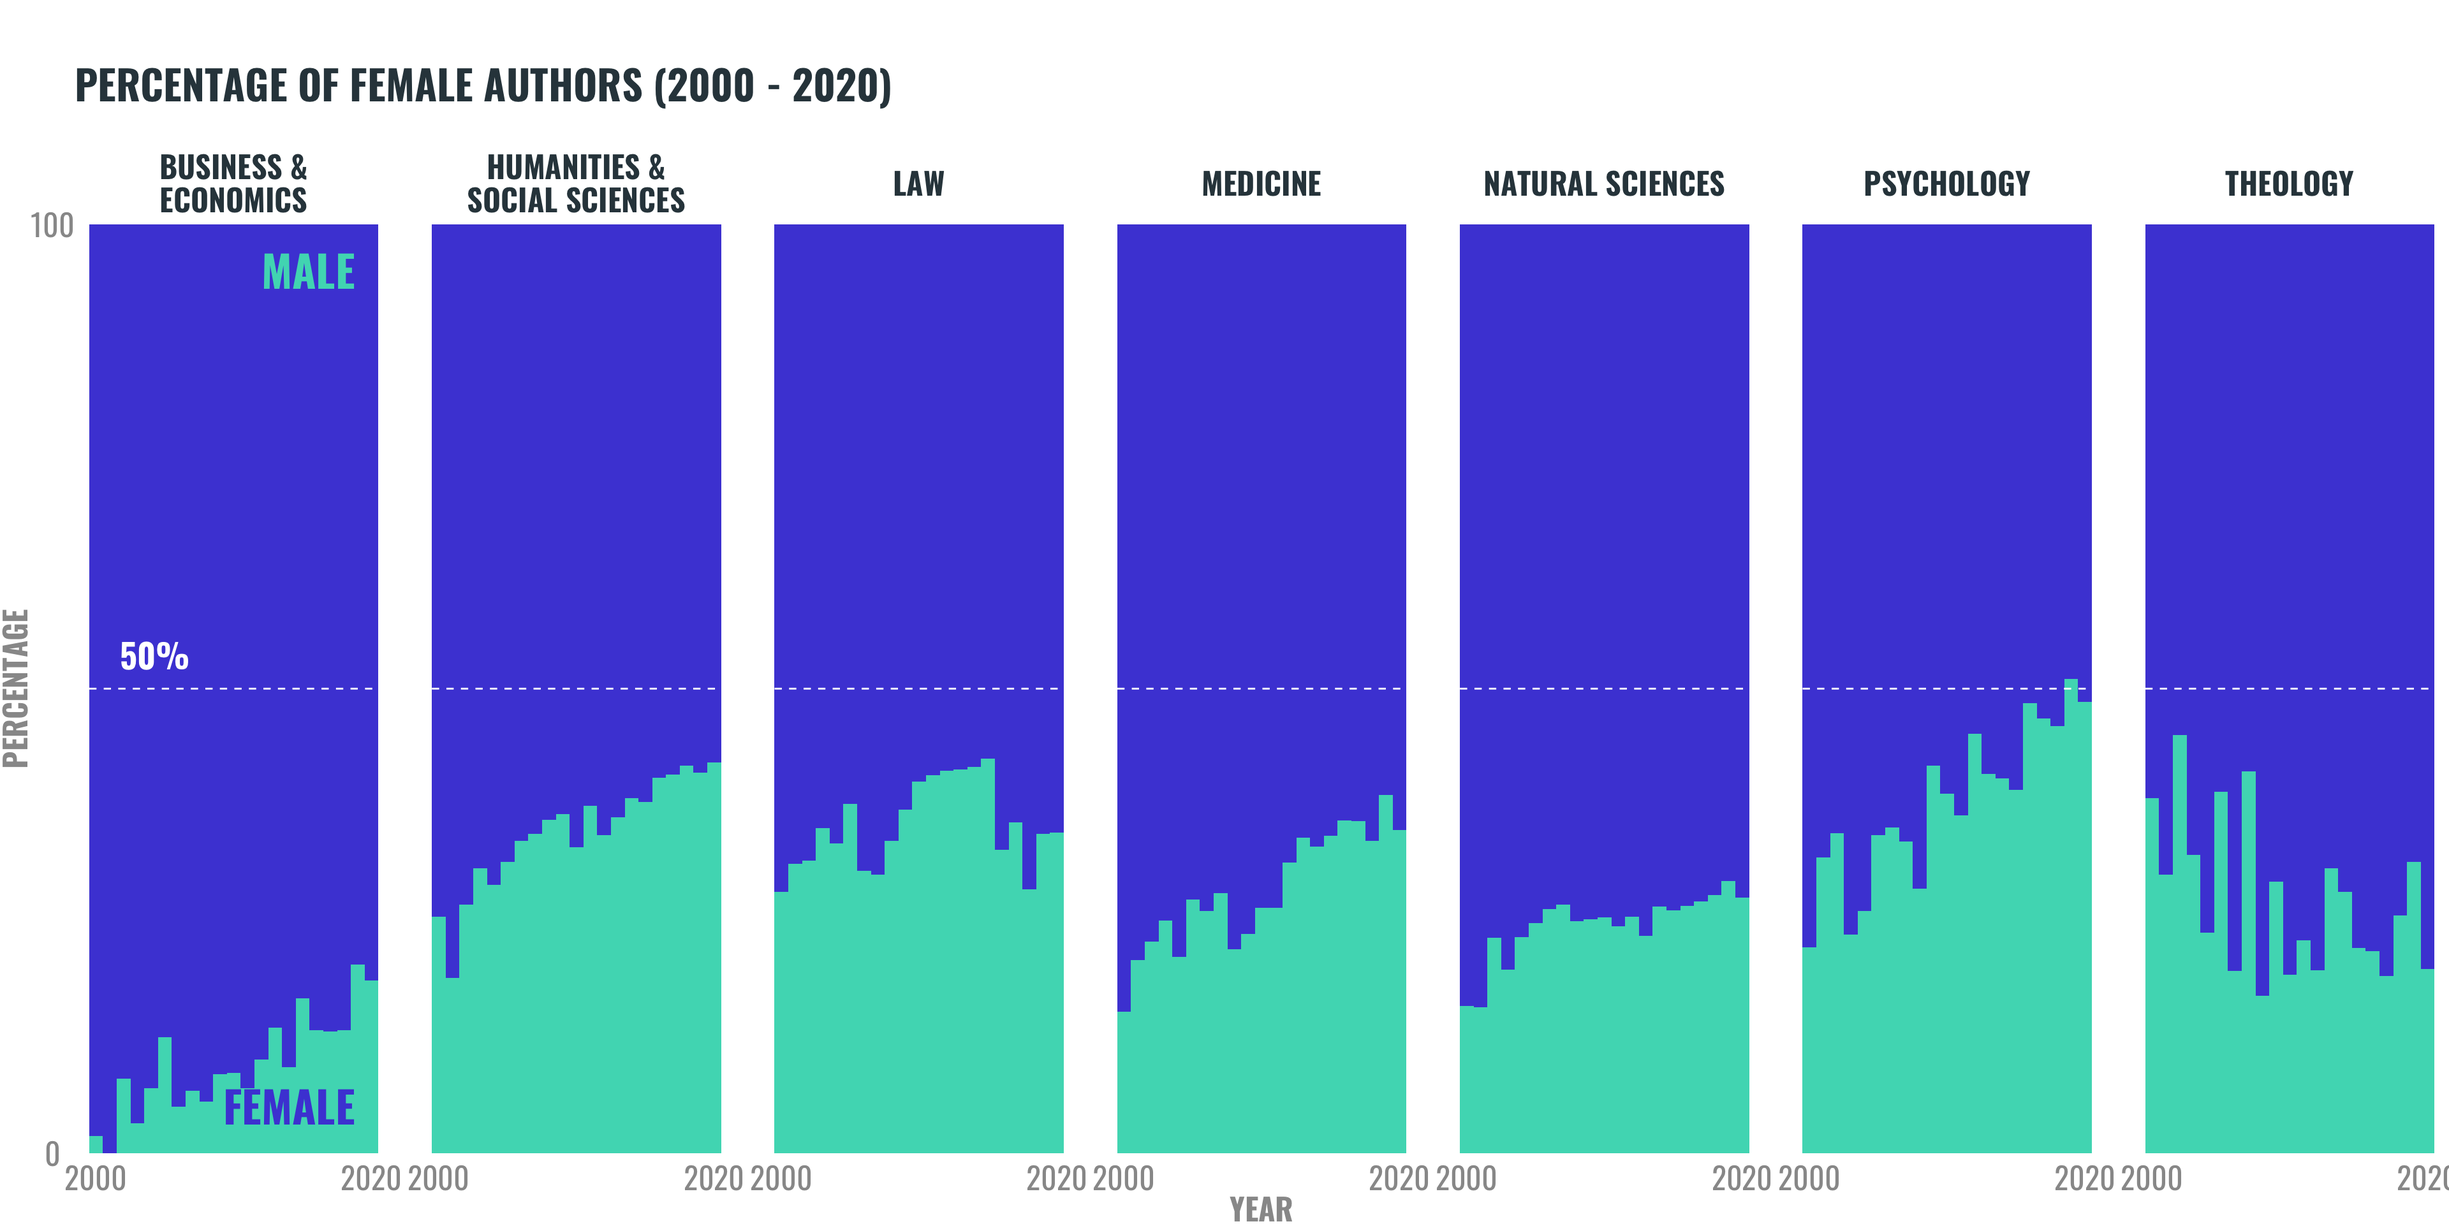
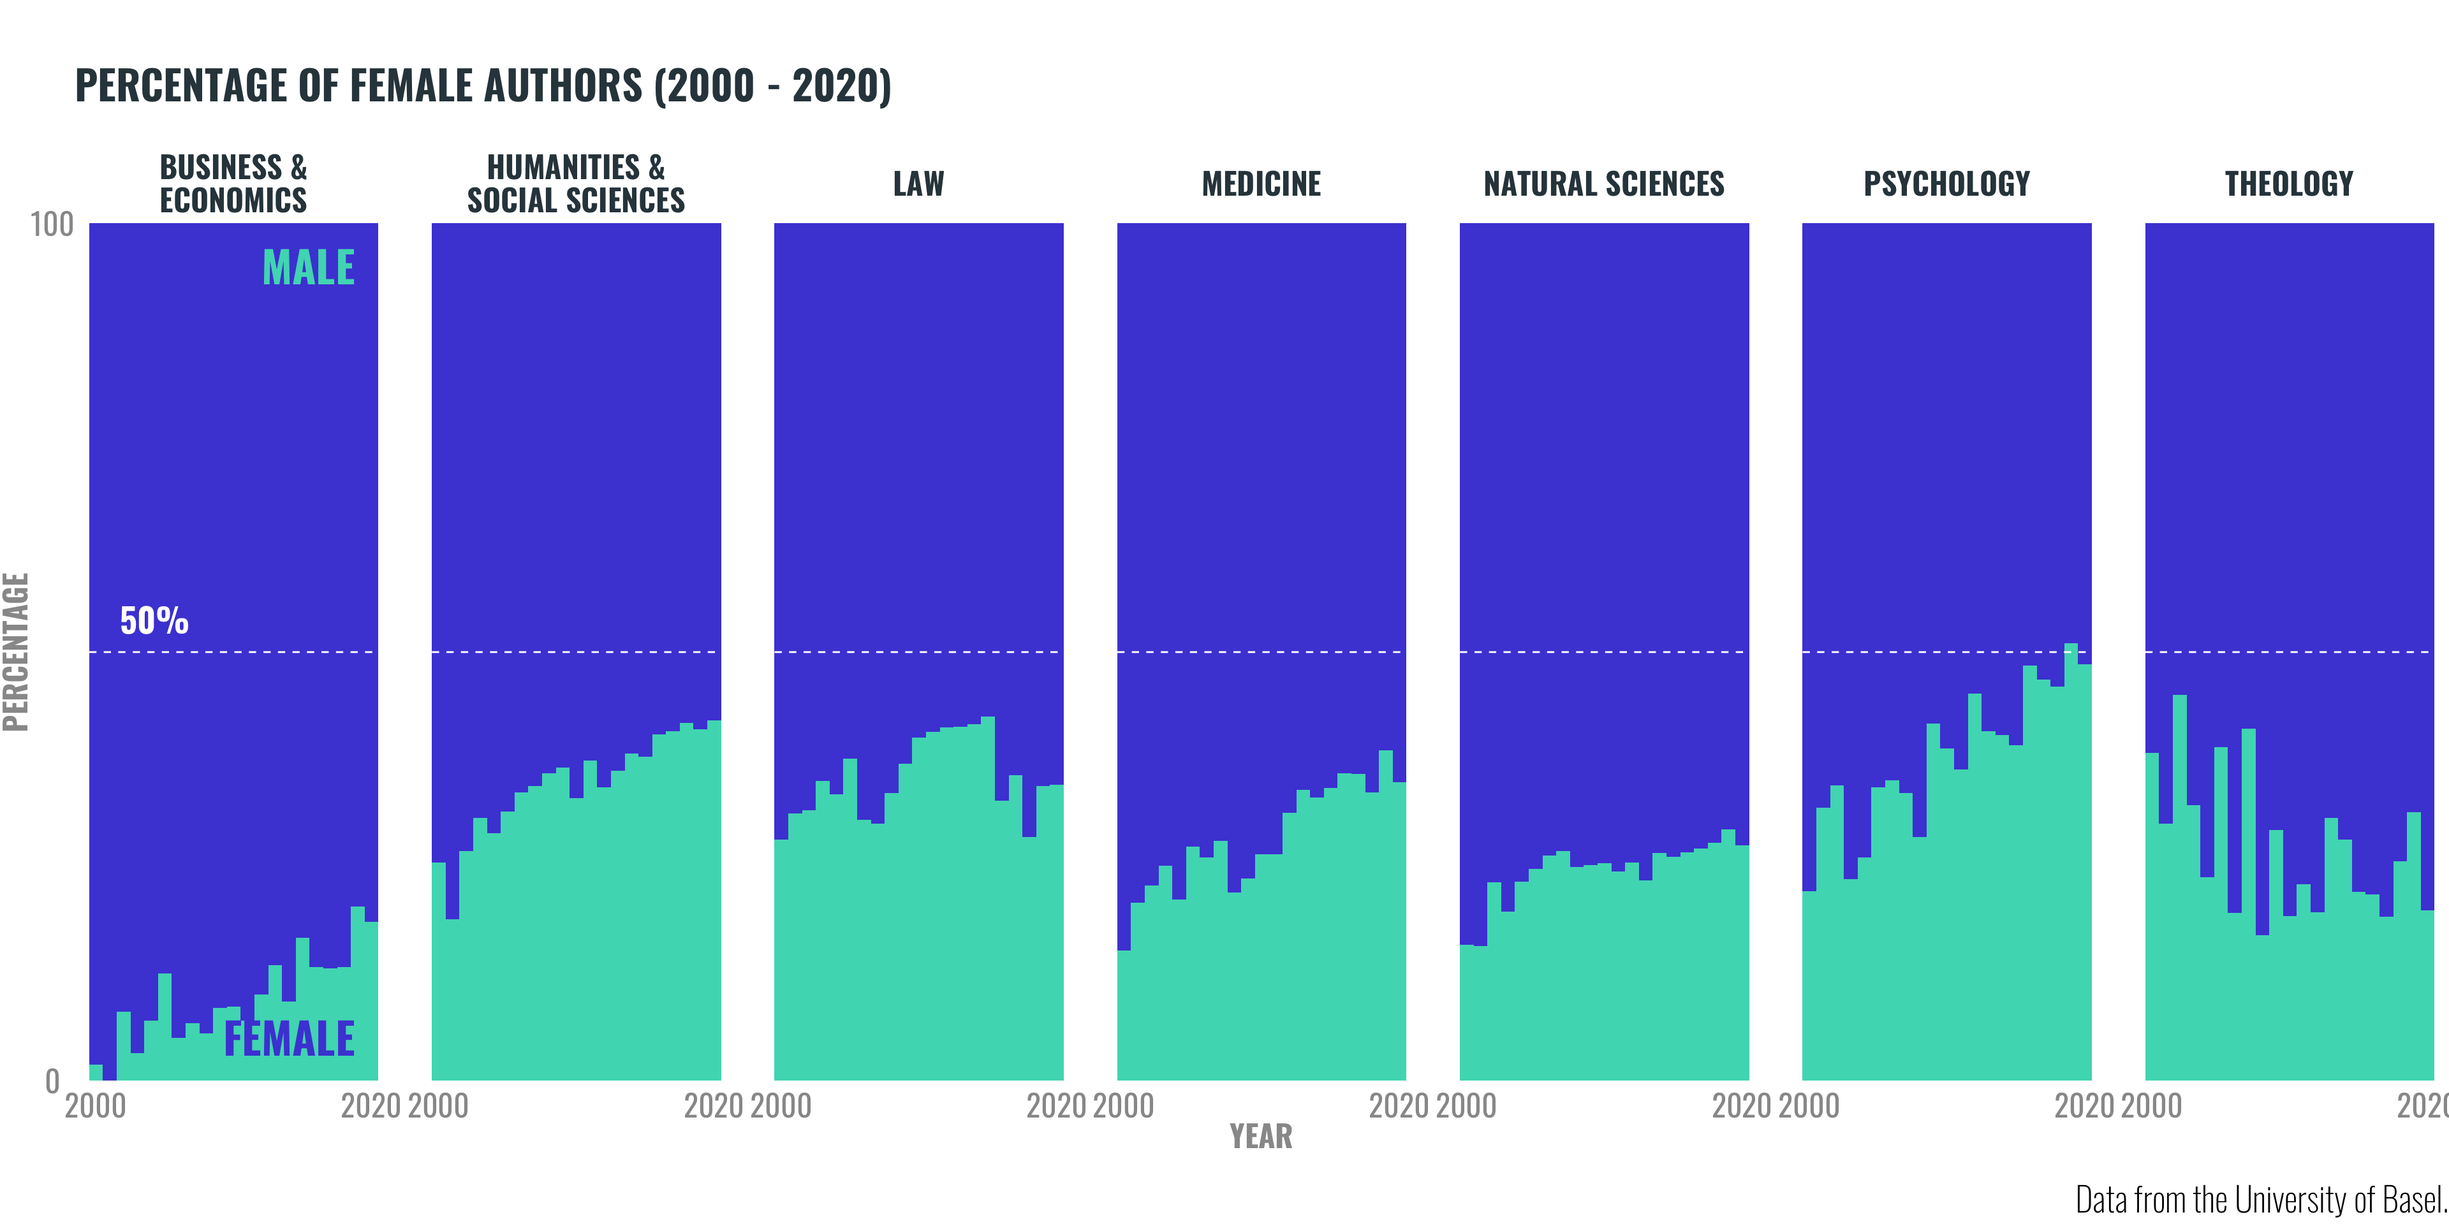
update all

diff --git a/report.html b/report.html
@@ -2103,15 +2103,17 @@ code span.wa { color: #5e5e5e; font-style: italic; } /* Warning */
 <h4 id="research-output-of-the-university-of-basel">Research Output of the University of Basel</h4>
 <p>We use data from a database listing the University of Basel’s research output. We focus on data between 2000 and 2020 because availability for earlier years is very limited and this time range allows some comparability to previous efforts (e.g., Odic &amp; Wojcik, 2019). We focus our analyses on University of Basel’s 7 faculties and neglect smaller associated institutes because there is large number of the latter with relatively few publications that make it difficult to consider trends over time.</p>
 <p>We analyze a total 67’269 publications including several different categories: 43’997 journal articles, 11’959 book chapters, 3’454 books (edited and authored), 2’014 proceedings articles, 1’671 theses, and 4’174 other items including news articles and discussion papers.</p>
+<h4 id="employment-information-of-the-university-of-basel">Employment Information of the University of Basel</h4>
+<p>We use data from the <a href="https://www.unibas.ch/en/University/Administration-Services/Vice-President-s-Office-for-People-and-Culture/Diversity-and-Inclusion/Diversity/Diversity-Management/Monitoring.html">Equal opportunities monitoring</a> concerning the percentage of females in different positions (i.e., professorships, academic staff) available for the period 2013-2019.</p>
 <h4 id="diversity-labeling-from-author-first-names">Diversity Labeling from Author First Names</h4>
 <p>We use information concerning diversity derived from the authors’ first names. We recruited existing publicly available services (e.g., <a href="https://genderize.io/">genderize.io</a>) to determine each author’s individual characteristics, such as gender. Estimates are provided based on the services’ databases that include hundreds of thousands of confirmed mappings between first names and individuals’ characteristics. Additional details are provided on the <a href="data.html">Data</a> page.</p>
 <p>Our report focuses on gender in line with the majority of past monitoring of diversity at the University of Basel and other similar efforts. Ideally, however, diversity should be conceptualized through several dimensions, that could include cultural and socio-economic background, political views, age, nationality, or religion, to name but a few. In our efforts, we strove to include different dimensions beyond gender, namely, nationality and age. Our simple validation efforts suggested, however, that such categorizations are unreliable so we refrain from reporting results concerning these dimensions below. We discuss limitations of our approach and alternative methods in the <em>Limitations and Outlook</em> section.</p>
 <h4 id="disclaimer">Disclaimer</h4>
-<p>Our analyses used first names to estimate the gender of authors using extant technology. This classification system assigns names to either “female” or “male”, thus, providing a traditional, binary classification of gender. We would like to state that this choice is of technical nature and should not be understood as a rejection of more inclusive, non-binary gender definitions.</p>
-<h2 id="the-publication-and-employment-gender-gaps-at-the-university-of-basel">The Publication and Employment Gender Gaps at the University of Basel</h2>
+<p>Our analyses used first names to estimate the gender of authors using extant technology. This classification system assigns names to either “female” or “male”, thus, providing a traditional, binary classification of gender. The contributors would like to state that this choice is of technical and pragmatic nature and should not be understood as a rejection of more inclusive, non-binary gender definitions.</p>
 <div class="layout-chunk" data-layout="l-body">
 
 </div>
+<h2 id="the-publication-gender-gap-at-the-university-of-basel">The Publication Gender Gap at the University of Basel</h2>
 <div class="layout-chunk" data-layout="l-body">
 <p><img src="report_files/figure-html5/unnamed-chunk-2-1.png" width="1920" /></p>
 </div>
@@ -2119,21 +2121,23 @@ code span.wa { color: #5e5e5e; font-style: italic; } /* Warning */
 
 </div>
 <ul>
-<li><p>The figure above shows evidence of a publication gender gap, with fewer publications of the University of Basel involving females relative to males (11, 39, 35, 27, 22, 35, 32%). Notwithstanding, the figure suggests there has been an general upward trend in the percentage of publications involving female authors over the last two decades. While in 2000 about 23% of authors were female, this share has increased to 31% in 2020.</p></li>
-<li><p>The overall levels as well as temporal trend vary, however, across faculties. Some faculties have a greater percentage of female authors overall, most notably the Faculty of Humanities and Social Sciences (39%), the Faculty of Psychology (35%), and the Faculty of Law (35%). Concerning trends, while for the Faculty of Psychology the increase of percentage points between 2000 to 2020 was 28%, the Faculty of Law saw an increase between 2000 to 2020 of 7%.</p></li>
+<li><p>The figure above shows evidence of a publication gender gap at the University of Basel; across all faculties and time, there were overal fewer publications involving females (29%) relative to males (71%); notwithstanding, the figure suggests a general upward trend in the percentage of publications involving females over the last two decades, while in 2000 the percentage of female authors was 23%, in 2020 this percentage was 31%.</p></li>
+<li><p>The overall levels as well as temporal trends vary, however, markedly between faculties: some faculties show a greater percentage of publications involving females across the full 20-year period (2000-2020), most notably the Faculty of Humanities and Social Sciences (39%), the Faculty of Psychology (35%), and the Faculty of Law (35%). Concerning temporal trends, some faculties have seen a greater increase, most notably the Faculty of Psychology which saw an increase between 2000 to 2020 of 28%.</p></li>
 </ul>
+<h2 id="linking-the-publication-and-employment-gender-gaps-the-role-of-seniority">Linking the Publication and Employment Gender Gaps: The Role of Seniority</h2>
+<p>We also investigated the publication gap as a function of authorship position by distinguishing between first and last authors (excluding single author publications). First authorship is typically (but not always) associated with junior academic roles in publications involving multiple authors, while last authorship typically cues seniority. Consequently, distinguishing between first and last authorship allows us to consider trends as a function of seniority or career stage. When considering these analysis and, particularly, comparing between faculties, it should be noted that determination of authorship order follows different practices across fields (e.g., alphabetical order in economics). Below, we show the breakdown of the publication gap by first vs. last author (upper panel) along with the percentage employment of females in professorships vs. academic staff (lower panel).</p>
 <div class="layout-chunk" data-layout="l-body">
 <p><img src="report_files/figure-html5/unnamed-chunk-4-1.png" width="1920" /></p>
 </div>
-<!-- Women are systematically underrepresented in academia. Whilst this inequality varies across academic departments, there has been an general upward trend in the proportion of female authors from the University of Basel over the last two decades, starting at 23.07 in 2000 and reaching 31.44 in 2020. This trend is also reflected in the percentage of first and last female authors. In this section, we offer a by-faculty insight into these developments over time. In particular, the prize for most improved goes to the Faculties of Humanities and Social Sciences, with Psychology and Medicine as runners up. These improvements are less noticeable in the Faculties of Science, Law, and Business & Economics, and the trend is reversed for the Faculty of Theology. However, this latter case may not be so informative as the sample of publications is considerably smaller. -->
 <ul>
-<li>In addition to the general author proportions, we investigated authorship positions by looking at first and last authors’ gender. There is a general trend for higher female proportions in first authors than last authors. When comparing between faculties, it should be noted however, that authorship position assignment may follow different practices in different fields. Publication data for the Faculty of Theology allows for less confident statements but suggests a decrease in the proportion of female authors.</li>
+<li><p>As can be seen in the upper panel the figure above, there is a general trend for higher female proportions in first authors than last authors; this pattern matches the larger prevalence of females in junior (academic staff) vs. senior (professorship) roles that is evident in the lower panel.</p></li>
+<li><p>As presented above for the overall percentage of publications, the temporal trends show overall increases over time, with patterns varying somewhat betwen faculties. Crucially, the temporal trends observed are not always parallel for first and last authors (cf. Natural Sciences, Psychology, Theology) suggesting that the dynamics underlying academic productivity can differ somewhat for the different career stages, at least for some faculties.</p></li>
 </ul>
 <h3 id="key-findings">Key findings</h3>
 <ul>
-<li><p>In the last 20 years, considerably more than half of the authors in the publications invesitgated irrespective of faculties, are male.</p></li>
-<li><p>This gender gap in publications has decreased for most faculties over the last 20 years.</p></li>
-<li><p>Generally, in the publications looked at, proportion of women among first authors was higher than among last authors.</p></li>
+<li><p>We identified a persistent and sizeable publication gender gap at the University of Basel between 2000-2020.</p></li>
+<li><p>The publication gender gap has decreased over the last 20 years, albeit at different rates across the 7 faculties that compose the University of Basel.</p></li>
+<li><p>The publication gender gap is larger and more persistant for last (i.e., senior authors) for some but not all faculties, suggesting that different dynamics are at play across faculties and career stages.</p></li>
 </ul>
 <h2 id="limitations-and-outlook">Limitations and Outlook</h2>
 <p>To be included after group discussion and input from Diversity Office (Oct 26th, 2021).</p>

diff --git a/index.html b/index.html
@@ -88,27 +88,27 @@ code span.wa { color: #5e5e5e; font-style: italic; } /* Warning */
   <!--radix_placeholder_meta_tags-->
   <title>CDS Hackathon: CDS Diversity Hackathon</title>
 
-  <meta property="description" itemprop="description" content="Visualizing diversity at the University of Basel&#10;&#10;Last update: Oct 21, 2021"/>
+  <meta property="description" itemprop="description" content="Visualizing diversity at the University of Basel&#10;&#10;Last update: Oct 22, 2021"/>
 
 
 
   <!--  https://developers.facebook.com/docs/sharing/webmasters#markup -->
   <meta property="og:title" content="CDS Hackathon: CDS Diversity Hackathon"/>
   <meta property="og:type" content="article"/>
-  <meta property="og:description" content="Visualizing diversity at the University of Basel&#10;&#10;Last update: Oct 21, 2021"/>
+  <meta property="og:description" content="Visualizing diversity at the University of Basel&#10;&#10;Last update: Oct 22, 2021"/>
   <meta property="og:locale" content="en_US"/>
   <meta property="og:site_name" content="CDS Hackathon"/>
 
   <!--  https://dev.twitter.com/cards/types/summary -->
   <meta property="twitter:card" content="summary"/>
   <meta property="twitter:title" content="CDS Hackathon: CDS Diversity Hackathon"/>
-  <meta property="twitter:description" content="Visualizing diversity at the University of Basel&#10;&#10;Last update: Oct 21, 2021"/>
+  <meta property="twitter:description" content="Visualizing diversity at the University of Basel&#10;&#10;Last update: Oct 22, 2021"/>
 
   <!--/radix_placeholder_meta_tags-->
   <!--radix_placeholder_rmarkdown_metadata-->
 
   <script type="text/json" id="radix-rmarkdown-metadata">
-  {"type":"list","attributes":{"names":{"type":"character","attributes":{},"value":["title","description","site"]}},"value":[{"type":"character","attributes":{},"value":["CDS Diversity Hackathon"]},{"type":"character","attributes":{},"value":["Visualizing diversity at the University of Basel\n\nLast update: Oct 21, 2021\n"]},{"type":"character","attributes":{},"value":["distill::distill_website"]}]}
+  {"type":"list","attributes":{"names":{"type":"character","attributes":{},"value":["title","description","site"]}},"value":[{"type":"character","attributes":{},"value":["CDS Diversity Hackathon"]},{"type":"character","attributes":{},"value":["Visualizing diversity at the University of Basel\n\nLast update: Oct 22, 2021\n"]},{"type":"character","attributes":{},"value":["distill::distill_website"]}]}
   </script>
   <!--/radix_placeholder_rmarkdown_metadata-->
   <!--radix_placeholder_navigation_in_header-->
@@ -2053,7 +2053,7 @@ code span.wa { color: #5e5e5e; font-style: italic; } /* Warning */
 <!--radix_placeholder_front_matter-->
 
 <script id="distill-front-matter" type="text/json">
-{"title":"CDS Diversity Hackathon","description":"Visualizing diversity at the University of Basel\n\nLast update: Oct 21, 2021","authors":[]}
+{"title":"CDS Diversity Hackathon","description":"Visualizing diversity at the University of Basel\n\nLast update: Oct 22, 2021","authors":[]}
 </script>
 
 <!--/radix_placeholder_front_matter-->
@@ -2082,7 +2082,7 @@ code span.wa { color: #5e5e5e; font-style: italic; } /* Warning */
 <!--radix_placeholder_categories-->
 <!--/radix_placeholder_categories-->
 <p><p>Visualizing diversity at the University of Basel</p>
-<p>Last update: Oct 21, 2021</p></p>
+<p>Last update: Oct 22, 2021</p></p>
 </div>
 
 

diff --git a/data.html b/data.html
@@ -2088,6 +2088,7 @@ code span.wa { color: #5e5e5e; font-style: italic; } /* Warning */
 <div class="d-article">
 <h4 id="data-and-preprocessing">Data and Preprocessing</h4>
 <p>We use data from a database listing the University of Basel’s research output between 2000 and 2020. There are a total 67’269 publications including several different categories: 43’997 journal articles, 11’959 book chapters, 3’454 books (edited and authored), 2’014 proceedings articles, 1’671 theses, and 4’174 other items including news articles and discussion papers.</p>
+<p>In addition, we use data from the <a href="https://www.unibas.ch/en/University/Administration-Services/Vice-President-s-Office-for-People-and-Culture/Diversity-and-Inclusion/Diversity/Diversity-Management/Monitoring.html">Equal opportunities monitoring</a> concerning the percentage of females in different positions (i.e., professorships, academic staff) available for the period 2013-2019.</p>
 <p><i>Diversity Dimensions</i></p>
 <p>We use information concerning diversity derived from the authors’ first names.</p>
 <p>We recruit the services <a href="https://genderize.io/">genderize.io</a>, <a href="https://agify.io/">agify.io</a>, <a href="https://nationalize.io/">nationalize.io</a> to determine the authors’ probable gender, age, and nation, respectively. Estimates are provided based on the services’ databases that include hundreds of thousands of confirmed mappings on the internet between first names and these three characteristics. In addition to probable categories, the services return information on confidence. For instance, for the name Alexandra, agify.io informs that 98% of 122’985 gender records point to a female gender, that the probable age is 27 based on 114,238 age records, and that there is a 11.7% probability that the nation is Romania, a 5.1% probability that the nation is Ecudor, and a 4.5% probability that the nation is Portugal.</p>
